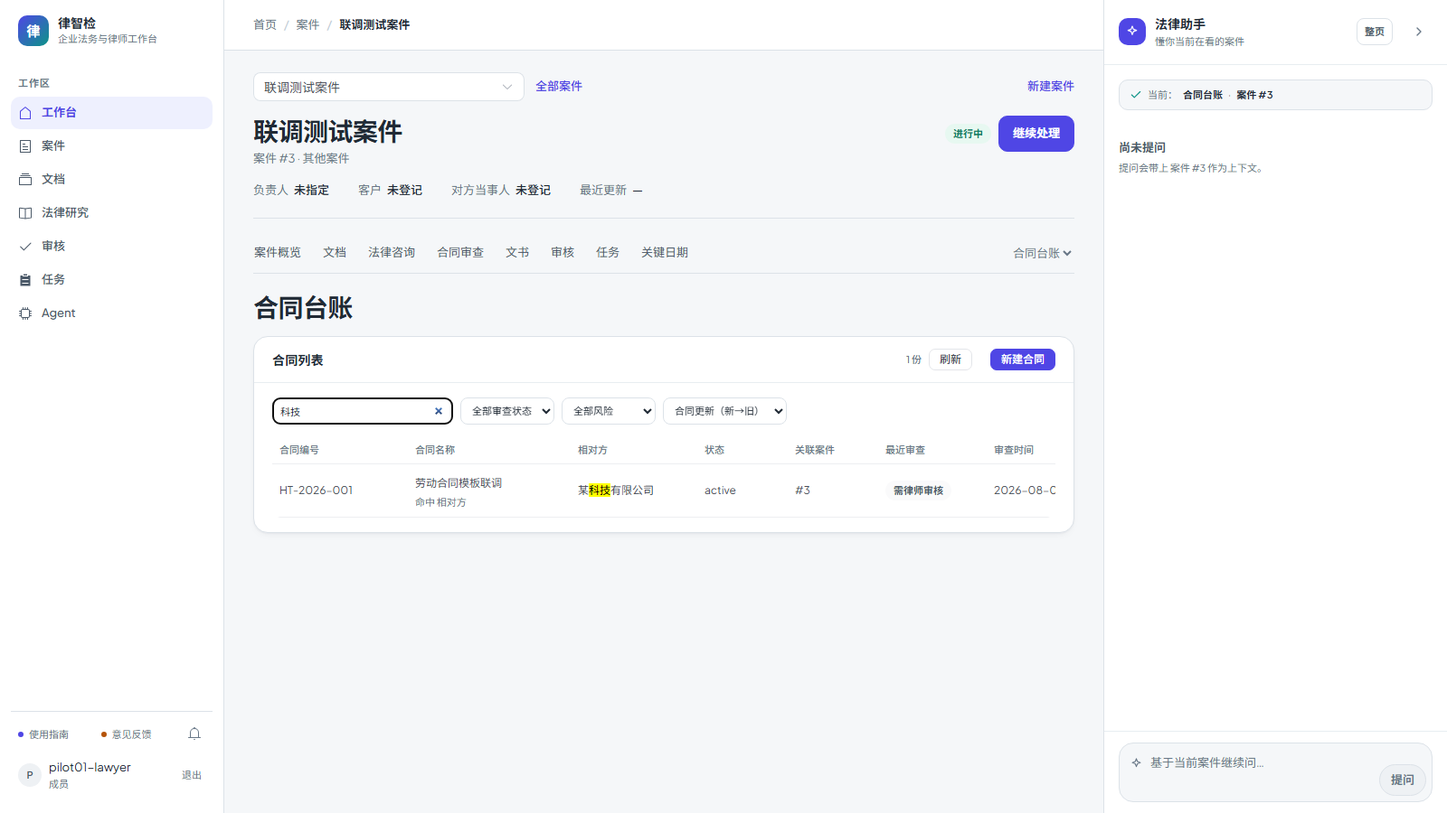
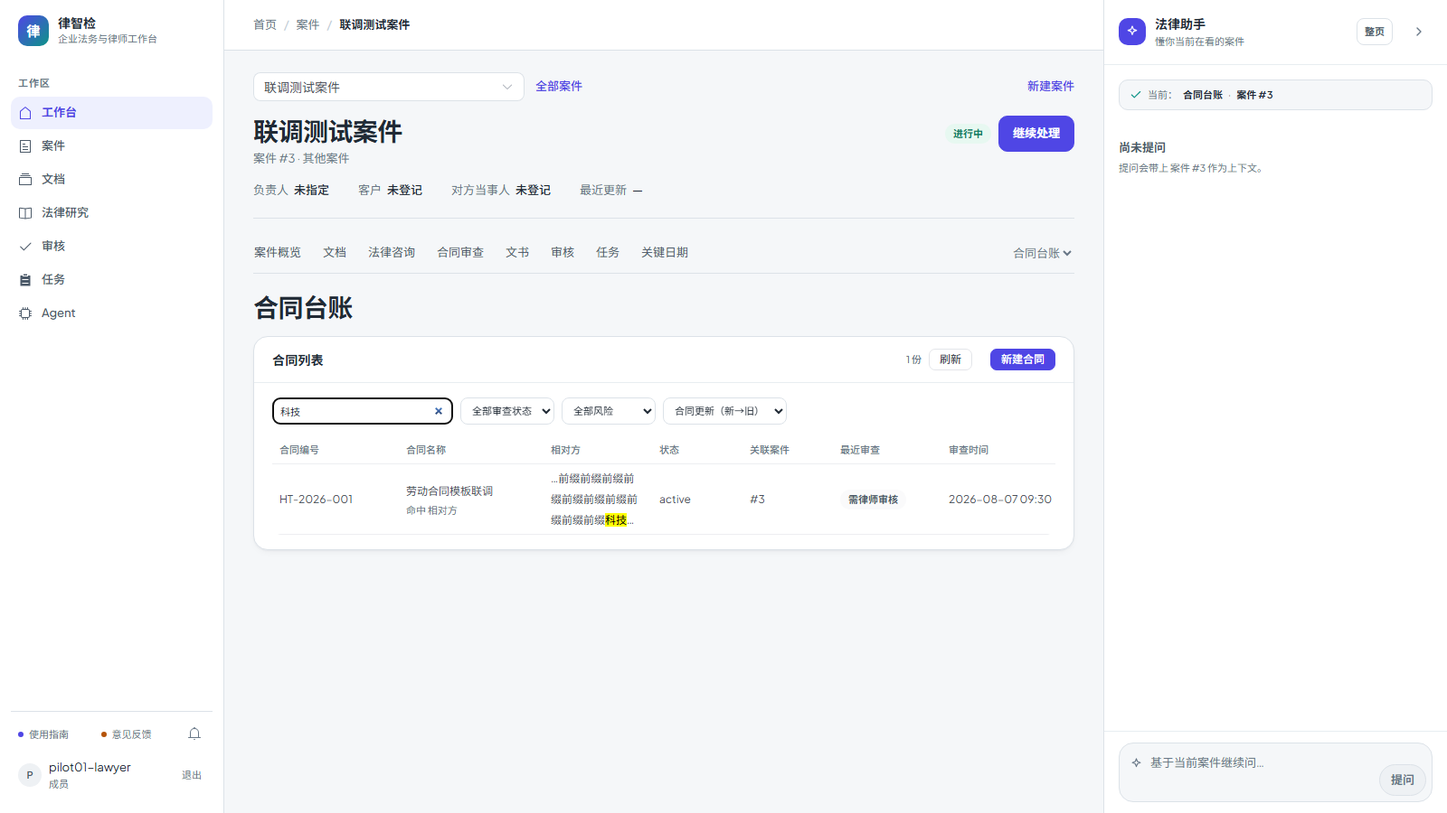
feat(legal): 搜索命中片段与窄列展示

diff --git a/frontend/src/views/LegalContracts.vue b/frontend/src/views/LegalContracts.vue
@@ -45,19 +45,23 @@
           </select>
         </div>
         <el-table v-loading="loading" :data="contracts" stripe size="small">
-          <el-table-column label="合同编号" width="150">
-            <template #default="{ row }"><HighlightText :text="row.contract_no" /></template>
+          <el-table-column label="合同编号" width="140">
+            <template #default="{ row }"><HighlightText :text="cellText(row, 'contract_no')" :title="cellText(row, 'contract_no')" /></template>
           </el-table-column>
-          <el-table-column label="合同名称" min-width="180">
+          <el-table-column label="合同名称" min-width="160">
             <template #default="{ row }">
-              <div class="contract-title">
-                <HighlightText :text="row.title" :title="row.title" />
+              <div class="contract-title" :class="{ 'is-snippet': hasSnippet(row, 'title') }">
+                <HighlightText :text="cellText(row, 'title')" :title="cellText(row, 'title')" />
                 <span v-if="searchTerm" class="search-hit-fields">命中 {{ searchHitText(row) }}</span>
               </div>
             </template>
           </el-table-column>
-          <el-table-column label="相对方" min-width="140">
-            <template #default="{ row }"><HighlightText :text="row.counterparty" /></template>
+          <el-table-column label="相对方" min-width="120">
+            <template #default="{ row }">
+              <div class="contract-cell" :class="{ 'is-snippet': hasSnippet(row, 'counterparty') }">
+                <HighlightText :text="cellText(row, 'counterparty')" :title="cellText(row, 'counterparty')" />
+              </div>
+            </template>
           </el-table-column>
           <el-table-column prop="status" label="状态" width="100" />
           <el-table-column label="关联案件" width="100">
@@ -197,7 +201,7 @@ const splitSort = (value) => {
 // 搜索命中提示：后端 search.matched_fields 是展示口径（字面子串），
 // 高亮在前端按同一个搜索词切分，避免用 v-html 引入注入风险。
 const SEARCH_FIELD_LABELS = { title: '名称', counterparty: '相对方', contract_no: '编号' }
-const searchTerm = computed(() => filters.value.q.trim())
+const searchTerm = computed(() => filters.value.q.trim().replace(/\s+/g, ' '))
 
 const highlightParts = (value) => {
   const text = value == null ? '' : String(value)
@@ -242,6 +246,12 @@ const searchHitText = (row) => {
   if (fields.length) return fields.map((field) => SEARCH_FIELD_LABELS[field] || field).join(' / ')
   return '分词匹配'
 }
+// 搜索命中时优先显示后端截好的片段（命中词前后各 20 字），没有片段则回退全文。
+const cellText = (row, field) => {
+  if (!searchTerm.value) return row[field]
+  return row.search?.snippets?.[field] ?? row[field]
+}
+const hasSnippet = (row, field) => Boolean(row.search?.snippets?.[field])
 const reviewTagClass = (review) => {
   if (!review) return ''
   if (review.status === 'lawyer_approved') return 'is-ok'
@@ -353,7 +363,22 @@ onMounted(loadFeatures)
 .risk-high { color: var(--color-danger); }
 .risk-gap { color: var(--color-warning); }
 .contract-title { display: grid; gap: 2px; min-width: 0; }
-.contract-title .search-text { overflow: hidden; text-overflow: ellipsis; white-space: nowrap; }
+.contract-cell { min-width: 0; }
+/* 片段最长 = 命中词前 20 + 命中词 + 后 20；只有片段模式最多铺三行，普通文本仍单行省略 */
+.contract-title .search-text,
+.contract-cell .search-text {
+  overflow: hidden;
+  text-overflow: ellipsis;
+  white-space: nowrap;
+}
+.contract-title.is-snippet .search-text,
+.contract-cell.is-snippet .search-text {
+  display: -webkit-box;
+  -webkit-line-clamp: 3;
+  -webkit-box-orient: vertical;
+  white-space: normal;
+  word-break: break-word;
+}
 .search-hit { padding: 0 1px; border-radius: 2px; background: var(--color-warning-light); color: var(--color-warning); font-weight: 600; }
 .search-hit-fields { color: var(--color-text-muted); font-size: var(--text-xs); line-height: 1.4; }
 .risk-breakdown { display: inline-flex; flex-wrap: wrap; gap: 2px 8px; line-height: 1.6; }

diff --git a/tests/test_contract_listing_review.py b/tests/test_contract_listing_review.py
@@ -249,7 +249,9 @@ class ContractListingReviewSummaryTests(unittest.TestCase):
         by_title = list_visible_contracts(
             self.db, org_id=self.org.id, user_id=self.user.id, q="劳动",
         )["items"][0]
-        self.assertEqual(by_title["search"], {"query": "劳动", "matched_fields": ["title"]})
+        self.assertEqual(by_title["search"]["query"], "劳动")
+        self.assertEqual(by_title["search"]["matched_fields"], ["title"])
+        self.assertEqual(by_title["search"]["snippets"]["title"], "劳动合同模板")
         by_party = list_visible_contracts(
             self.db, org_id=self.org.id, user_id=self.user.id, q="科技",
         )["items"][0]
@@ -286,6 +288,38 @@ class ContractListingReviewSummaryTests(unittest.TestCase):
                 self.db, org_id=self.org.id, user_id=self.user.id,
                 q="采购", page_size=2, cursor=first["next_cursor"],
             )
+
+    def test_search_snippets_keep_20_chars_around_match(self):
+        long = self._contract("甲" * 30 + "劳动合同" + "乙" * 30)
+        long.counterparty = "丙" * 25 + "科技" + "丁" * 25
+        long.contract_no = "HT-" + "0" * 20 + "劳动" + "9" * 20
+        short = self._contract("劳动合同")
+        self.db.commit()
+
+        def row_for(query, contract_id):
+            result = list_visible_contracts(
+                self.db, org_id=self.org.id, user_id=self.user.id, q=query,
+            )
+            return next(row for row in result["items"] if row["id"] == contract_id)
+
+        by_title = row_for("劳动", long.id)
+        self.assertEqual(
+            by_title["search"]["snippets"]["title"],
+            "…" + "甲" * 20 + "劳动合同" + "乙" * 18 + "…",
+        )
+        self.assertEqual(
+            by_title["search"]["snippets"]["contract_no"],
+            "…" + "0" * 20 + "劳动" + "9" * 20,
+        )
+        by_party = row_for("科技", long.id)
+        self.assertEqual(
+            by_party["search"]["snippets"]["counterparty"],
+            "…" + "丙" * 20 + "科技" + "丁" * 20 + "…",
+        )
+        # 短字段不补省略号
+        self.assertEqual(
+            row_for("劳动", short.id)["search"]["snippets"]["title"], "劳动合同",
+        )
 
     def test_relevance_sort_orders_by_matched_field_and_paginates(self):
         title_hit = self._contract("劳动合同")

diff --git a/app/services/legal/legal_contract_listing.py b/app/services/legal/legal_contract_listing.py
@@ -219,6 +219,20 @@ def serialize_review_summary(summary: LegalContractReviewSummary | None) -> dict
 
 
 SEARCH_FIELD_NAMES = ("title", "counterparty", "contract_no")
+SNIPPET_RADIUS = 20
+
+
+def _snippet(value, keyword: str) -> str | None:
+    """截取命中词前后各 20 个字符；两端有截断时补省略号。"""
+    text = str(value or "")
+    index = text.casefold().find(keyword.casefold())
+    if index < 0:
+        return None
+    start = max(0, index - SNIPPET_RADIUS)
+    end = min(len(text), index + len(keyword) + SNIPPET_RADIUS)
+    prefix = "…" if start > 0 else ""
+    suffix = "…" if end < len(text) else ""
+    return f"{prefix}{text[start:end]}{suffix}"
 
 
 def search_hit(contract: LegalContract, q: str | None) -> dict[str, Any] | None:
@@ -232,11 +246,15 @@ def search_hit(contract: LegalContract, q: str | None) -> dict[str, Any] | None:
         return None
     needle = keyword.casefold()
     matched = []
+    snippets: dict[str, str] = {}
     for field in SEARCH_FIELD_NAMES:
         value = getattr(contract, field, None)
         if value and needle in str(value).casefold():
             matched.append(field)
-    return {"query": keyword, "matched_fields": matched}
+            snippet = _snippet(value, keyword)
+            if snippet:
+                snippets[field] = snippet
+    return {"query": keyword, "matched_fields": matched, "snippets": snippets}
 
 
 def serialize_milestone(milestone: LegalContractMilestone) -> dict[str, Any]:

diff --git a/docs/review/交付说明.md b/docs/review/交付说明.md
@@ -4,8 +4,8 @@
 >
 > 这份文档是入口。想快速判断「值不值得看」，读第 1、4、6 节；想复现，读第 7 节；想深挖某一项，跳第 8 节索引。
 
-- 时间范围：2026-10-11 → 2026-10-27（44 份 step 文档，编号 step1–step49 有跳号；每轮交付都有截图与验收表）
-- 代码状态：`master`；本文档之后追加了 step21（合同审查三层评审）、step22（消保法语料）、step23（民间借贷语料）、step24（合同审查第三层裁决）、step25（合同审查证据链）、step26（风险存储合并）、step27（跨审查风险统计）、step28（风险处置追溯）、step29（SLA 提醒与咨询证据链）、step30（队列证据链信号）、step31（无依据咨询通知）、step32（追问引用对比）、step33（补充完成通知）、step34（SLA 站内提醒）、step35（批量处置与门户概览）、step36（合同台账审查视图）、step37（通知邮件渠道）、step38（HTML 邮件模板）、step39（Outbox 投递看板）、step40（通知模板可编辑）、step41（投递趋势与阈值告警）、step42（积压快照与积压曲线）、step43（告警升级与静默时段）、step44（合同台账审查摘要物化）、step45（按审查时间排序与严重度细分）、step46（台账 keyset 分页与排序索引）、step47（台账搜索索引化）、step48（搜索高亮与命中字段提示）、step49（按相关度排序）与投递版，提交历史见仓库；工作区状态以 `git status` 为准
+- 时间范围：2026-10-11 → 2026-10-27（45 份 step 文档，编号 step1–step50 有跳号；每轮交付都有截图与验收表）
+- 代码状态：`master`；本文档之后追加了 step21（合同审查三层评审）、step22（消保法语料）、step23（民间借贷语料）、step24（合同审查第三层裁决）、step25（合同审查证据链）、step26（风险存储合并）、step27（跨审查风险统计）、step28（风险处置追溯）、step29（SLA 提醒与咨询证据链）、step30（队列证据链信号）、step31（无依据咨询通知）、step32（追问引用对比）、step33（补充完成通知）、step34（SLA 站内提醒）、step35（批量处置与门户概览）、step36（合同台账审查视图）、step37（通知邮件渠道）、step38（HTML 邮件模板）、step39（Outbox 投递看板）、step40（通知模板可编辑）、step41（投递趋势与阈值告警）、step42（积压快照与积压曲线）、step43（告警升级与静默时段）、step44（合同台账审查摘要物化）、step45（按审查时间排序与严重度细分）、step46（台账 keyset 分页与排序索引）、step47（台账搜索索引化）、step48（搜索高亮与命中字段提示）、step49（按相关度排序）、step50（命中片段）与投递版，提交历史见仓库；工作区状态以 `git status` 为准
 - 计划与诊断原文：[2026-10-project-diagnosis.md](2026-10-project-diagnosis.md)（本文是它的交付收口）
 
 ---
@@ -114,6 +114,7 @@
 | 台账搜索索引化（step47） | 迁移 0111 在 MySQL 建 `(title, counterparty, contract_no)` 的 FULLTEXT + ngram 索引；`q` 改为布尔短语匹配，单字/非 MySQL 回退三列 LIKE（`autoescape`）；前端加搜索框（300ms 防抖），搜索词进游标指纹；搜索覆盖名称/相对方/编号 | [step47](step47-contract-search-fulltext.md)；[截图](step45-contract-ledger-severity.png) |
 | 搜索高亮与命中字段（step48） | 列表项新增 `search.query/matched_fields`（展示口径，字面子串）；前端函数式组件按搜索词切分文本，用 `<mark>` 高亮名称/相对方/编号，名称下方提示「命中 名称/相对方/编号」，字面不连续时显示「分词匹配」；不拼 `v-html` | [step48](step48-contract-search-highlight.md)；[截图](step48-contract-search-highlight.png) |
 | 按相关度排序（step49） | `sort=relevance`：MySQL 用 `MATCH ... AGAINST` 全文分数，SQLite/单字用「名称 3/相对方 2/编号 1」加权；游标带 float 分数 + id，同分按 id 兜底；无搜索词时 400，前端选项禁用、清空关键词自动回默认排序 | [step49](step49-relevance-sort.md)；[截图](step49-relevance-sort.png) |
+| 命中片段（step50） | 列表项新增 `search.snippets`：命中词前后各 20 字、两端省略号、短字段不补；前端搜索时优先显示片段，名称/相对方最多三行，列宽收紧 50px，命中词仍高亮，完整片段在 `title` 悬停可见 | [step50](step50-search-snippet.md)；[截图](step50-search-snippet.png) |
 | 消保法语料 | 8 → **63 条**全文；4 个演示法源同步 **252 条**；演示库条文 **1034 → 1254**；第25/55条核验 `verified=true` | [step22](step22-consumer-law-corpus.md)；`scripts/import_consumer_law_corpus.py` |
 | 民间借贷语料 | 8 → **31 条**全文（2020 年第二次修正）；4 个演示法源同步 **124 条**；演示库条文 **1254 → 1346**；第13/25条核验 `verified=true` | [step23](step23-private-lending-corpus.md)；`scripts/import_private_lending_corpus.py` |
 
@@ -149,11 +150,12 @@
 23. **通知模板编辑的边界**：layout 只覆盖 4 个文案字段，改版式仍要改代码；html 正文是管理员输入、不做 HTML 消毒；没有 diff/一键回滚；页面固定 zh-CN；预览用固定示例参数。
 24. **告警有升级但仍有盲区**：只发组织管理员（平台账号不收）、阈值全局、冷却窗口边界可能连发两次；step43 补了持续升级与静默时段，但升级仍无值班/转派、静默只能靠 API 配置；告警本身走通知 Outbox，邮件队列积压时告警也会晚到。
 25. **积压快照依赖 beat 且只有 5 分钟粒度**：停摆时曲线断裂、不插值；组织曲线只覆盖有管理员的组织；吞吐只算投递成功（`sent_at`），失败不进曲线；非 MySQL/SQLite 方言的小时桶会退回 SQLite 语法。
-26. **包体余量见底**：总资产已到预算 99%（1689.7 / 1700 KB），新 tab 已按异步 chunk 拆，但再加页面级 chunk 会触顶——下一步要么拆共享依赖，要么提高预算并写清理由。
+26. **包体余量见底**：总资产已到预算 99%（1690.4 / 1700 KB），新 tab 已按异步 chunk 拆，但再加页面级 chunk 会触顶——下一步要么拆共享依赖，要么提高预算并写清理由。
 27. **台账只能向后翻**：step46 改为 keyset 游标，`page` 参数已移除，旧客户端传 `page=2` 会被忽略而拿到第一页；`total` 是首页快照，翻页期间新增/删除不实时反映，新插入且排在游标前的记录本轮看不到；`q` 模糊搜索与风险/状态过滤仍可能扫描较多行，`COUNT` 仍是全量计数。
 28. **台账搜索依赖 MySQL 8 ngram**：step47 的全文索引只在 MySQL 建，非 MySQL 回退 LIKE；单字查询也回退 LIKE；短语匹配不支持同义词/错别字/模糊搜索，不做相关度排序；先跑迁移 0111 再上代码，只回滚索引会让 `MATCH` 查询报错。
 29. **命中字段提示是展示口径**：step48 的 `search.matched_fields` 按字面子串判定，和 ngram 分词命中可能不一致（字面不连续时显示「分词匹配」）；高亮大小写不敏感、只覆盖名称/相对方/编号三列，不改变搜索范围。
 30. **相关度只在搜索时可用**：step49 的 `sort=relevance` 没有 `q` 会 400，前端选项禁用；MySQL 用全文分数、SQLite/单字用 3/2/1 加权，两种口径顺序可能不同；排序在命中集上 filesort，宽泛关键词会慢，且分数不含语义/点击反馈。
+31. **命中片段按字符截取**：step50 只围绕第一个命中词取前后各 20 字，超出三行的尾部会被 CSS 截掉（完整片段在 `title`）；片段不改变搜索/排序，也不替代列表原值；大小写折叠对个别语言可能让截取位置偏一位。
 ---
 
 ## 6. 简历 bullet（带可溯源数字）
@@ -201,7 +203,7 @@ $env:PYTHONPATH="$PWD"; .\.venv\Scripts\python.exe -B -m pytest tests/test_legal
 
 **可信度与观测**
 - 三层评审：[step13-three-layer-review.md](step13-three-layer-review.md)、[human-spotcheck-brief.md](human-spotcheck-brief.md)、[human-spotcheck.html](human-spotcheck.html)
-- 合同审查三层评审：[step21-contract-review-three-layer.md](step21-contract-review-three-layer.md)（规则层 / 双模型裁判 / 抽检表）、[step24-contract-review-adjudication.md](step24-contract-review-adjudication.md)（独立裁决 + 一致率）、[step25-contract-evidence-chain.md](step25-contract-evidence-chain.md)（证据链徽标 + 缺口筛选）、[step26-merge-contract-risk-storage.md](step26-merge-contract-risk-storage.md)（风险存储合并）、[step27-cross-review-risk-stats.md](step27-cross-review-risk-stats.md)（跨审查风险统计）、[step28-risk-disposition-trace.md](step28-risk-disposition-trace.md)（风险处置追溯）、[step29-sla-and-consultation-chain.md](step29-sla-and-consultation-chain.md)（SLA 提醒与咨询证据链）、[step30-consultation-chain-signal.md](step30-consultation-chain-signal.md)（队列证据链信号）、[step31-uncited-consultation-notification.md](step31-uncited-consultation-notification.md)（无依据咨询通知）、[step32-followup-evidence-comparison.md](step32-followup-evidence-comparison.md)（追问引用对比）、[step33-supplement-notification.md](step33-supplement-notification.md)（补充完成通知）、[step34-review-sla-reminders.md](step34-review-sla-reminders.md)（SLA 站内提醒）、[step35-bulk-risk-and-portal-case.md](step35-bulk-risk-and-portal-case.md)（批量处置与门户概览）、[step36-contract-ledger-review-view.md](step36-contract-ledger-review-view.md)（台账审查视图）、[step37-notification-email-channel.md](step37-notification-email-channel.md)（通知邮件渠道）、[step38-html-email-templates.md](step38-html-email-templates.md)（HTML 邮件模板）、[step39-outbox-delivery-dashboard.md](step39-outbox-delivery-dashboard.md)（Outbox 投递看板）、[step40-notification-template-editor.md](step40-notification-template-editor.md)（通知模板可编辑）、[step41-outbox-trend-and-health-alerts.md](step41-outbox-trend-and-health-alerts.md)（投递趋势与阈值告警）、[step42-outbox-backlog-snapshots.md](step42-outbox-backlog-snapshots.md)（积压快照与积压曲线）、[step43-alert-escalation-and-quiet-hours.md](step43-alert-escalation-and-quiet-hours.md)（告警升级与静默时段）、[step44-contract-review-summary-materialization.md](step44-contract-review-summary-materialization.md)（台账审查摘要物化）、[step45-contract-ledger-sort-and-severity.md](step45-contract-ledger-sort-and-severity.md)（按审查时间排序与严重度细分）、[step46-contract-ledger-keyset-pagination.md](step46-contract-ledger-keyset-pagination.md)（台账 keyset 分页与排序索引）、[step47-contract-search-fulltext.md](step47-contract-search-fulltext.md)（台账搜索索引化）、[step48-contract-search-highlight.md](step48-contract-search-highlight.md)（搜索高亮与命中字段）、[step49-relevance-sort.md](step49-relevance-sort.md)（按相关度排序）
+- 合同审查三层评审：[step21-contract-review-three-layer.md](step21-contract-review-three-layer.md)（规则层 / 双模型裁判 / 抽检表）、[step24-contract-review-adjudication.md](step24-contract-review-adjudication.md)（独立裁决 + 一致率）、[step25-contract-evidence-chain.md](step25-contract-evidence-chain.md)（证据链徽标 + 缺口筛选）、[step26-merge-contract-risk-storage.md](step26-merge-contract-risk-storage.md)（风险存储合并）、[step27-cross-review-risk-stats.md](step27-cross-review-risk-stats.md)（跨审查风险统计）、[step28-risk-disposition-trace.md](step28-risk-disposition-trace.md)（风险处置追溯）、[step29-sla-and-consultation-chain.md](step29-sla-and-consultation-chain.md)（SLA 提醒与咨询证据链）、[step30-consultation-chain-signal.md](step30-consultation-chain-signal.md)（队列证据链信号）、[step31-uncited-consultation-notification.md](step31-uncited-consultation-notification.md)（无依据咨询通知）、[step32-followup-evidence-comparison.md](step32-followup-evidence-comparison.md)（追问引用对比）、[step33-supplement-notification.md](step33-supplement-notification.md)（补充完成通知）、[step34-review-sla-reminders.md](step34-review-sla-reminders.md)（SLA 站内提醒）、[step35-bulk-risk-and-portal-case.md](step35-bulk-risk-and-portal-case.md)（批量处置与门户概览）、[step36-contract-ledger-review-view.md](step36-contract-ledger-review-view.md)（台账审查视图）、[step37-notification-email-channel.md](step37-notification-email-channel.md)（通知邮件渠道）、[step38-html-email-templates.md](step38-html-email-templates.md)（HTML 邮件模板）、[step39-outbox-delivery-dashboard.md](step39-outbox-delivery-dashboard.md)（Outbox 投递看板）、[step40-notification-template-editor.md](step40-notification-template-editor.md)（通知模板可编辑）、[step41-outbox-trend-and-health-alerts.md](step41-outbox-trend-and-health-alerts.md)（投递趋势与阈值告警）、[step42-outbox-backlog-snapshots.md](step42-outbox-backlog-snapshots.md)（积压快照与积压曲线）、[step43-alert-escalation-and-quiet-hours.md](step43-alert-escalation-and-quiet-hours.md)（告警升级与静默时段）、[step44-contract-review-summary-materialization.md](step44-contract-review-summary-materialization.md)（台账审查摘要物化）、[step45-contract-ledger-sort-and-severity.md](step45-contract-ledger-sort-and-severity.md)（按审查时间排序与严重度细分）、[step46-contract-ledger-keyset-pagination.md](step46-contract-ledger-keyset-pagination.md)（台账 keyset 分页与排序索引）、[step47-contract-search-fulltext.md](step47-contract-search-fulltext.md)（台账搜索索引化）、[step48-contract-search-highlight.md](step48-contract-search-highlight.md)（搜索高亮与命中字段）、[step49-relevance-sort.md](step49-relevance-sort.md)（按相关度排序）、[step50-search-snippet.md](step50-search-snippet.md)（长文本命中片段）
 - 语料：[step22-consumer-law-corpus.md](step22-consumer-law-corpus.md)（消保法 63 条全文 + provenance）、[step23-private-lending-corpus.md](step23-private-lending-corpus.md)（民间借贷 31 条全文 + 版本纠正）
 - 可核验性：[step17-evidence-verifiability.md](step17-evidence-verifiability.md)、[step18-evidence-and-index-observability.md](step18-evidence-and-index-observability.md)、[step19-evidence-backfill.md](step19-evidence-backfill.md)
 

diff --git a/docs/review/step50-search-snippet.md b/docs/review/step50-search-snippet.md
@@ -1,0 +1,70 @@
+# 第五十步交付说明：长文本摘要命中片段（命中词前后 20 字）
+
+> 一句话：搜索命中长标题/长相对方时，表格不再铺整段文本，只显示「命中词前后各 20 字」的片段，两端补省略号；命中词仍然高亮，单元格最多三行，完整片段在 `title` 里可悬停查看。
+
+- 日期：2026-10-27
+- 后端：`legal_contract_listing.py`（`SNIPPET_RADIUS=20`、`_snippet`、`search.snippets`）
+- 前端：`LegalContracts.vue`（`cellText` 优先取片段、三行截断、列宽 140/160/120）
+- 测试：`tests/test_contract_listing_review.py`（21，含片段边界/短字段/编号片段）、e2e `contracts-flow.spec.js`（长相对方片段 + 高亮）
+- 截图：`step50-search-snippet.png`
+
+---
+
+## 1. 片段规则
+
+后端在 `search` 里新增 `snippets`：
+
+```json
+"search": {
+  "query": "科技",
+  "matched_fields": ["counterparty"],
+  "snippets": {
+    "counterparty": "…前缀前缀…科技后缀后缀…"
+  }
+}
+```
+
+- 以**第一个命中位置**为中心，向前取 20 个字符、向后取 20 个字符；
+- 起点 > 0 补 `…`，终点 < 文本长度补 `…`；
+- 字段本身较短（命中词前后不足 20 字）时返回原文，不补省略号；
+- 只给 `matched_fields` 里的字段生成片段，没有命中的字段不返回；
+- 片段是**展示数据**，不改变搜索与排序，也不替代列表里的 `title` / `counterparty` 原值。
+
+## 2. 前端
+
+- 搜索时 `cellText(row, field)` 优先取 `row.search.snippets[field]`，没有片段或未搜索时用原值；
+- 名称、相对方、编号三列都接片段；名称与相对方最多三行（`-webkit-line-clamp: 3`），避免 40+ 字片段把行撑到五六行；
+- 命中词仍由 `HighlightText` 切分渲染 `<mark>`，片段里的 `…` 保持普通文本；
+- 单元格 `title` 指向片段本身，悬停可看完整片段（不是整段原文）；
+- 列宽同步收紧：合同编号 150→140、名称 180→160、相对方 140→120，整表少 50px。
+
+![搜索「科技」：长相对方只显示命中词前后片段，科技仍高亮（e2e mock 数据）](step50-search-snippet.png)
+
+## 3. 验证
+
+| 项 | 结果 |
+| --- | --- |
+| 长标题 | 30 个「甲」+「劳动合同」+30 个「乙」，命中「劳动」→ `…` + 20 甲 + 劳动合同 + 18 乙 + `…` |
+| 长相对方 | 25 个「丙」+「科技」+25 个「丁」→ `…` + 20 丙 + 科技 + 20 丁 + `…` |
+| 长编号 | `HT-` + 20 个 0 +「劳动」+20 个 9 → 前面补 `…`，末尾无截断则不补 |
+| 短字段 | 「劳动合同」命中「劳动」→ 原文，不补省略号 |
+| 命中字段 | `snippets` 只包含 `matched_fields` 中的字段 |
+| e2e | 1 passed（16.5s，全 mock）：长相对方搜索「科技」→ 单元格含 `…`、`<mark>科技</mark>`、提示「命中 相对方」；截图见上 |
+| 单测 | 台账 21 passed |
+| 门禁 | 见 §5（本树跑完回填） |
+
+## 4. 边界
+
+1. **片段只是展示**：搜索与排序仍按完整字段；片段不会改变命中范围。
+2. **按字符截取，不按字节**：中文 1 字 = 1 字符；截断后可能出现半个词组，属预期。
+3. **大小写折叠的长度差异**：匹配位置用 `casefold`/`lower` 计算，个别语言（如 ß）折叠后长度变化可能让截取位置偏一位；法律台账以中英文为主。
+4. **只取第一个命中**：同一字段出现多次搜索词时只围绕第一次出现截取。
+5. **最多三行**：片段本身仍是 20+关键词+20 字，窄列里可能被 CSS 截掉尾部；完整片段通过 `title` 悬停查看。
+6. **片段不返回整段原文**：列表原值仍在 `title` / `counterparty` 字段里；片段只用于单元格展示。
+7. **无 HTML 拼接**：片段是纯文本，高亮由前端文本切分完成，`<mark>` 不来自后端。
+8. **不缓存**：片段每次随列表响应生成，按当前搜索词计算；数据更新后下一次查询自然刷新。
+
+## 5. 门禁
+
+- `scripts/check_all.py`：**10/10，14.4 分钟，exit 0**（本树最终状态；后端 2450 passed / 4 skipped）。
+- 包体：总资产 **1690.4 / 1700 KB（99%）**，`LegalContracts` chunk 17.98 KB raw（6.16 KB gzip）；OpenAPI 路径 **356**；前端单测 **96 passed**。
